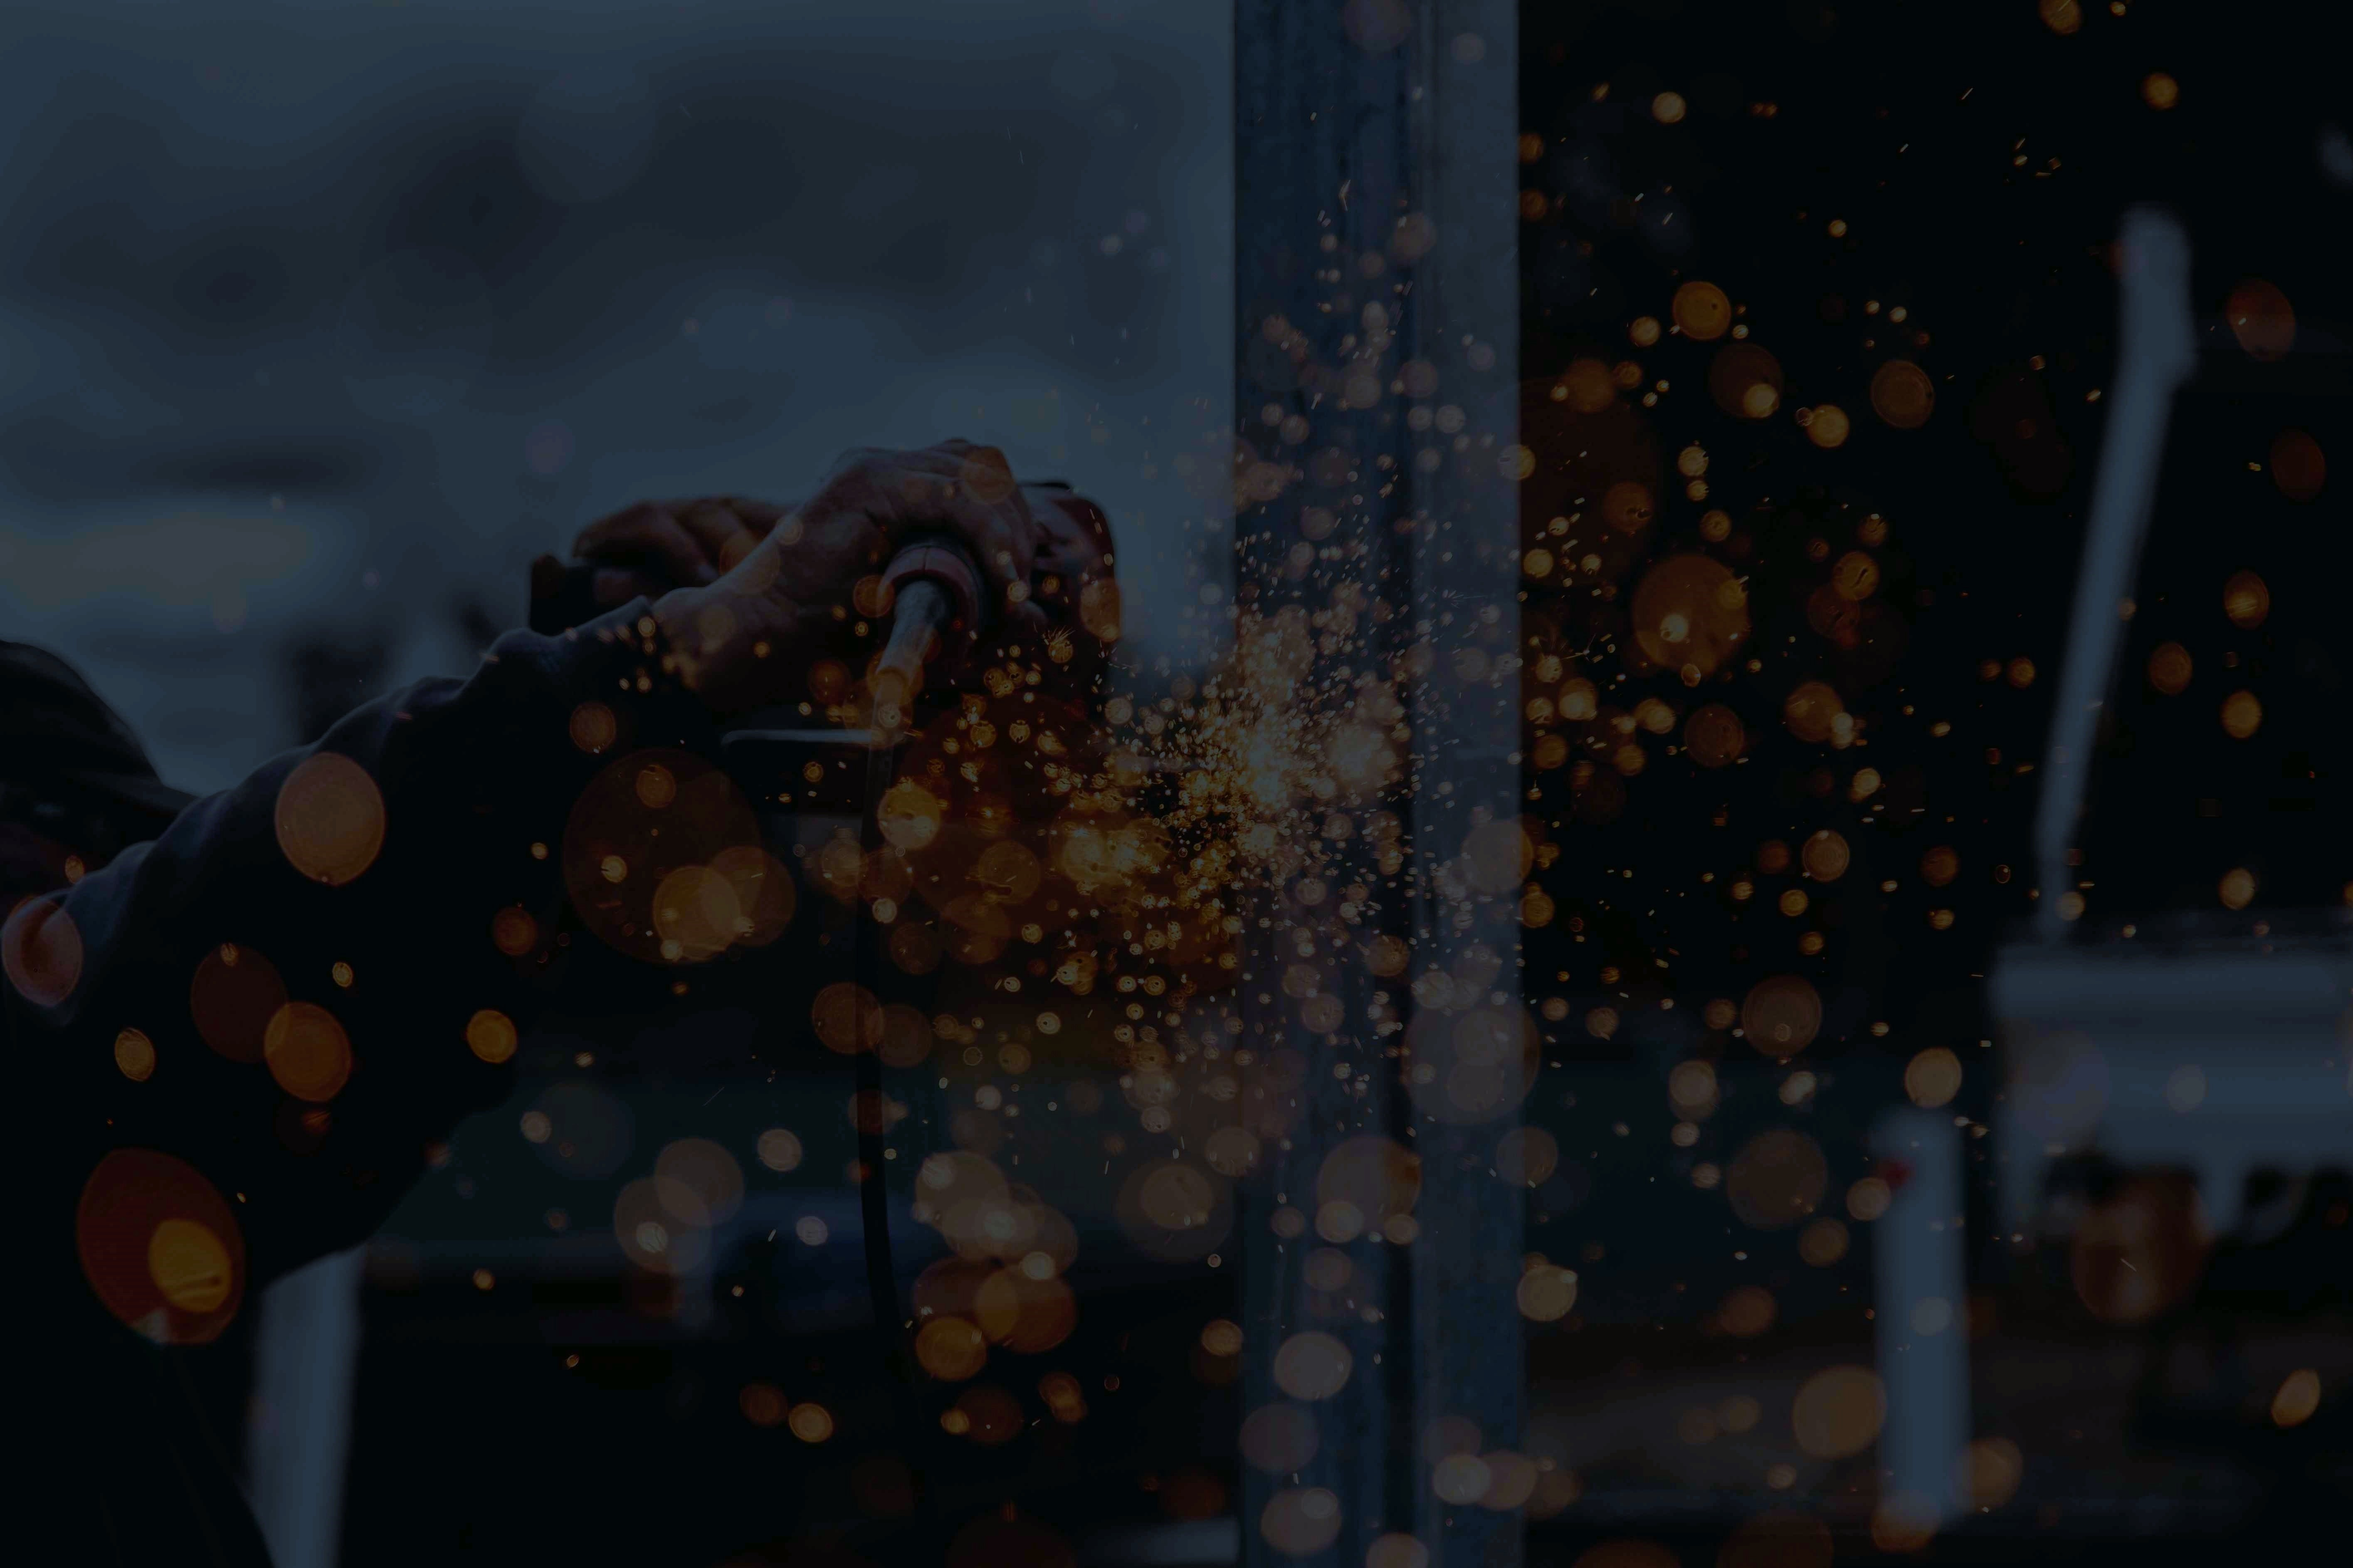
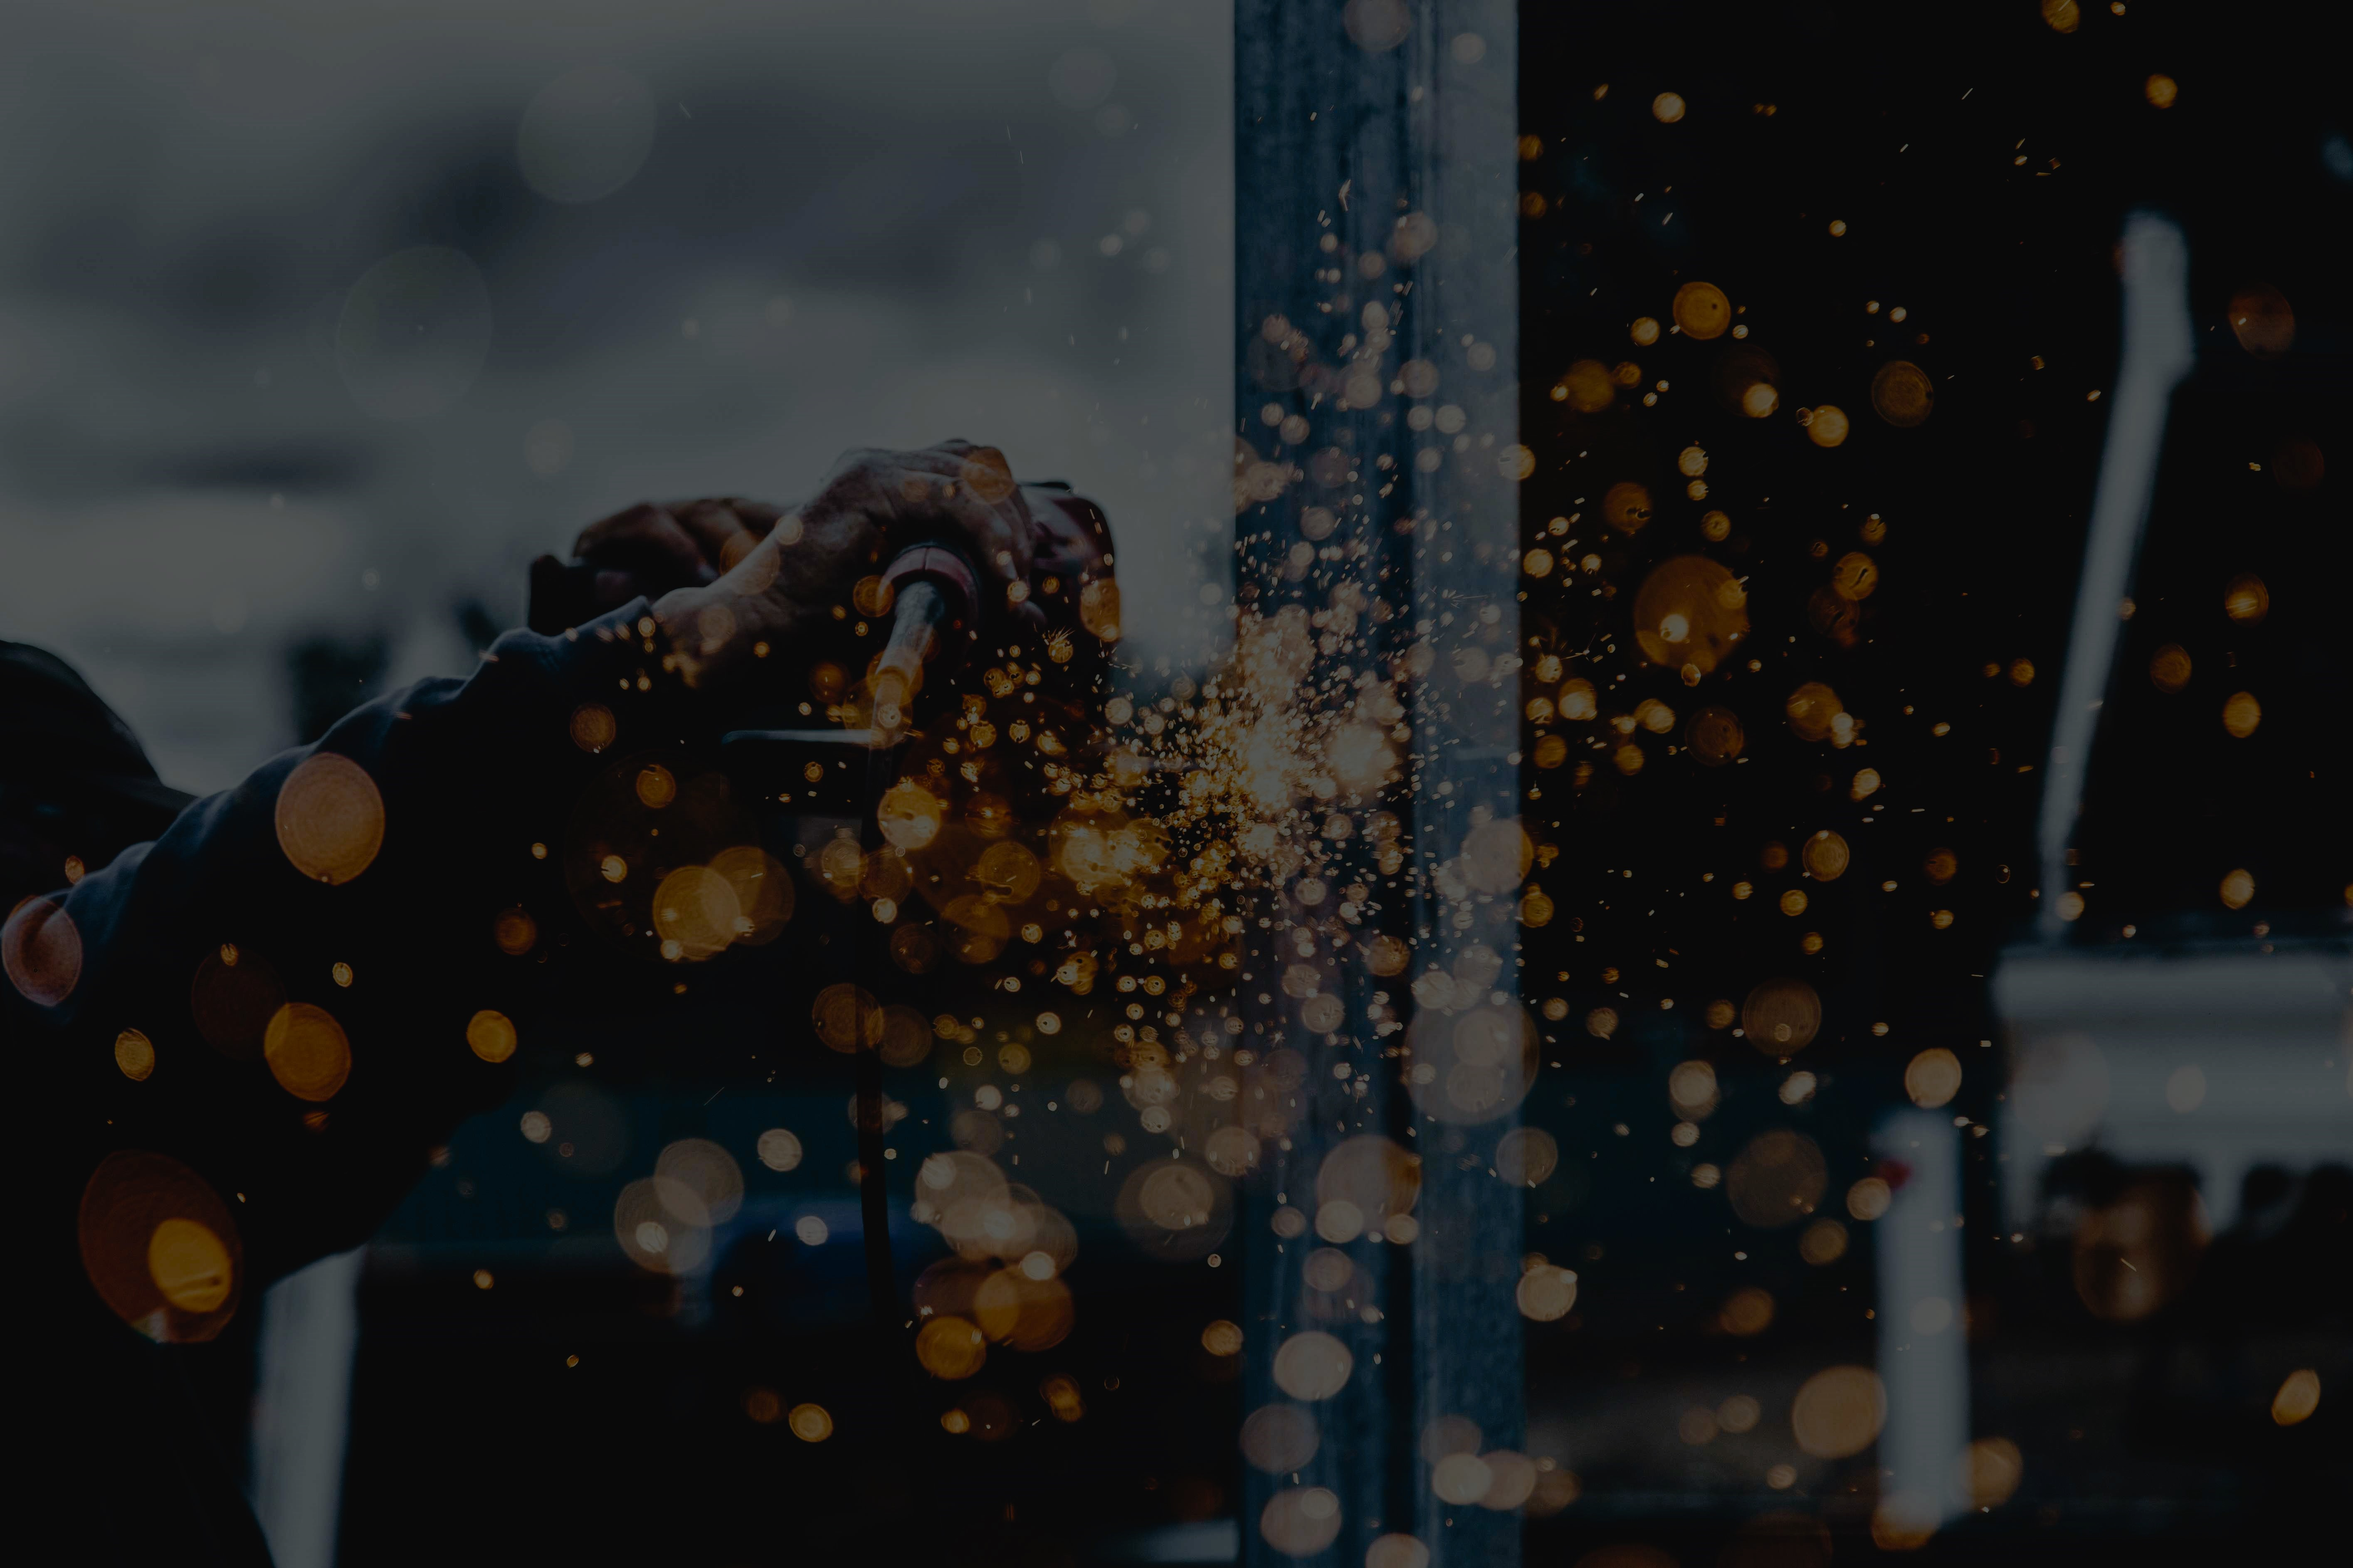
Debug

diff --git a/src/components/home/LatestArticles.js b/src/components/home/LatestArticles.js
@@ -3,7 +3,11 @@ import { Swiper, SwiperSlide } from "swiper/react";
 import { Autoplay } from "swiper/modules";
 import "swiper/css";
 import Image from "next/image";
-import img from "../../../public/images/slider-1.jpg";
+import img_1 from "../../../public/images/slider-1.jpg";
+import img_2 from "../../../public/images/slider-2.jpg";
+import img_3 from "../../../public/images/slider-3.jpg";
+import img_4 from "../../../public/images/slider-4.jpg";
+import img_5 from "../../../public/images/slider-5.jpg";
 import { FontAwesomeIcon } from "@fortawesome/react-fontawesome";
 import { faAngleLeft, faCalendarAlt } from "@fortawesome/free-solid-svg-icons";
 import { useMediaQuery } from "@/hooks/useMediaQuery";
@@ -42,8 +46,13 @@ export default function LatestArticles() {
                     >
                         <Image
                             className={styles.article_cover}
-                            src={img}
+                            src={img_1}
                             alt="عکس مقاله"
+                            width={100}
+                            height={100}
+                            quality={100}
+                            priority
+                            unoptimized
                         />
 
                         <div className={styles.article_information}>
@@ -76,8 +85,13 @@ export default function LatestArticles() {
                     >
                         <Image
                             className={styles.article_cover}
-                            src={img}
+                            src={img_2}
                             alt="عکس مقاله"
+                            width={100}
+                            height={100}
+                            quality={100}
+                            priority
+                            unoptimized
                         />
 
                         <div className={styles.article_information}>
@@ -110,8 +124,13 @@ export default function LatestArticles() {
                     >
                         <Image
                             className={styles.article_cover}
-                            src={img}
+                            src={img_3}
                             alt="عکس مقاله"
+                            width={100}
+                            height={100}
+                            quality={100}
+                            priority
+                            unoptimized
                         />
 
                         <div className={styles.article_information}>
@@ -144,8 +163,13 @@ export default function LatestArticles() {
                     >
                         <Image
                             className={styles.article_cover}
-                            src={img}
+                            src={img_4}
                             alt="عکس مقاله"
+                            width={100}
+                            height={100}
+                            quality={100}
+                            priority
+                            unoptimized
                         />
 
                         <div className={styles.article_information}>
@@ -178,8 +202,13 @@ export default function LatestArticles() {
                     >
                         <Image
                             className={styles.article_cover}
-                            src={img}
+                            src={img_5}
                             alt="عکس مقاله"
+                            width={100}
+                            height={100}
+                            quality={100}
+                            priority
+                            unoptimized
                         />
 
                         <div className={styles.article_information}>

diff --git a/src/components/global/Footer.js b/src/components/global/Footer.js
@@ -105,7 +105,11 @@ export default function Footer() {
                     <div className={`${styles.hcb} ${hcb1 ? styles.show : ""}`}>
                         <div
                             className={styles.title}
-                            onClick={() => setHcb1(!hcb1)}
+                            onClick={() => {
+                                setHcb1(!hcb1)
+                                setHcb2(false)
+                                setHcb3(false)
+                            }}
                         >
                             راهنمای مشتریان
                             <span>
@@ -127,7 +131,11 @@ export default function Footer() {
                     <div className={`${styles.hcb} ${hcb2 ? styles.show : ""}`}>
                         <div
                             className={styles.title}
-                            onClick={() => setHcb2(!hcb2)}
+                            onClick={() => {
+                                setHcb1(false)
+                                setHcb2(!hcb2)
+                                setHcb3(false)
+                            }}
                         >
                             همراه با روشن مارکت
                             <span>
@@ -149,7 +157,11 @@ export default function Footer() {
                     <div className={`${styles.hcb} ${hcb3 ? styles.show : ""}`}>
                         <div
                             className={styles.title}
-                            onClick={() => setHcb3(!hcb3)}
+                            onClick={() => {
+                                setHcb1(false)
+                                setHcb2(false)
+                                setHcb3(!hcb3)
+                            }}
                         >
                             راهنمای خرید از روشن مارکت
                             <span>

diff --git a/src/components/home/Categories.js b/src/components/home/Categories.js
@@ -17,6 +17,7 @@ export default function Categories() {
                     height={100}
                     quality={100}
                     priority
+                    unoptimized
                 />
 
                 <div className={styles.category_title}>
@@ -34,6 +35,7 @@ export default function Categories() {
                     height={100}
                     quality={100}
                     priority
+                    unoptimized
                 />
 
                 <div className={styles.category_title}>
@@ -51,6 +53,7 @@ export default function Categories() {
                     height={100}
                     quality={100}
                     priority
+                    unoptimized
                 />
 
                 <div className={styles.category_title}>
@@ -68,6 +71,7 @@ export default function Categories() {
                     height={100}
                     quality={100}
                     priority
+                    unoptimized
                 />
 
                 <div className={styles.category_title}>

diff --git a/src/components/home/HomeSlider.js b/src/components/home/HomeSlider.js
@@ -44,6 +44,7 @@ export default function HomeSlider() {
             height={100}
             quality={100}
             priority
+            unoptimized
           />
         </SwiperSlide>
 
@@ -67,6 +68,7 @@ export default function HomeSlider() {
             height={100}
             quality={100}
             priority
+            unoptimized
           />
         </SwiperSlide>
 
@@ -90,6 +92,7 @@ export default function HomeSlider() {
             height={100}
             quality={100}
             priority
+            unoptimized
           />
         </SwiperSlide>
 
@@ -113,6 +116,7 @@ export default function HomeSlider() {
             height={100}
             quality={100}
             priority
+            unoptimized
           />
         </SwiperSlide>
 
@@ -136,6 +140,7 @@ export default function HomeSlider() {
             height={100}
             quality={100}
             priority
+            unoptimized
           />
         </SwiperSlide>
       </Swiper>

diff --git a/src/styles/products/FilterBox.module.css b/src/styles/products/FilterBox.module.css
@@ -223,13 +223,8 @@
     .container {
         width: calc(100% - 40px);
         padding: 0 20px 15px 20px;
-        position: fixed;
-        left: 0;
-        top: 147px;
-        display: flex;
-        align-items: center;
-        flex-direction: row;
-        z-index: 9;
+        top: 0;
+        position: relative;
         border: none;
     }
 
@@ -283,6 +278,7 @@
         transition: 0.5s ease;
         display: block;
         border-radius: 10px 10px 0 0;
+        z-index: 3;
     }
     .filter_box.show .options {
         transition: 0.5s;
@@ -307,13 +303,6 @@
 }
 
 @media (max-width: 580px) {
-    .container {
-        padding: 20px;
-        width: calc(100% - 40px);
-        top: 140px;
-        right: 0;
-    }
-
     .filters {
         flex-direction: column;
     }

diff --git a/src/styles/global/Header.module.css b/src/styles/global/Header.module.css
@@ -348,7 +348,7 @@
     }
     .categories_menu.show {
         left: 0;
-        top: calc(50% + 25px);
+        top: calc(50% + 35px);
     }
 
     .main_title {
@@ -388,7 +388,6 @@
         position: absolute;
         left: 0;
         top: 85px;
-        box-shadow: 0 20px 20px #00000009;
     }
 
     .logo_wrapper {
@@ -405,7 +404,7 @@
         padding: 20px;
     }
     .categories_menu.show {
-        top: calc(50% + 45px);
+        top: calc(50% + 55px);
     }
 
     .categ_item {
@@ -437,8 +436,9 @@
     }
 
     .categories_menu {
-        height: calc(100% - 100px) !important;
-        top: 100%;
+        width: calc(100% - 40px);
+        height: 100% !important;
+        position: fixed;
         z-index: 9;
     }
     .categories_menu.show {

diff --git a/src/styles/products/ProductsSection.module.css b/src/styles/products/ProductsSection.module.css
@@ -153,7 +153,11 @@
     .container {
         width: 100%;
         padding: 0;
-        margin-top: 104px;
+        margin-top: 45px;
+    }
+
+    .products_container {
+        flex-direction: column;
     }
 
     .pagination {
@@ -162,18 +166,15 @@
 
     .f_boxes {
         width: calc(100% - 40px);
-        padding: 0 20px 15px 20px;
+        padding: 15px 20px 15px 20px;
         font-size: 14px;
+        border: none;
     }
 }
 
 @media (max-width: 580px) {
     .reset_btn_2.show {
         display: block;
-    }
-
-    .container {
-        margin-top: 119px;
     }
 
     .f_boxes {

diff --git a/src/styles/global/Footer.module.css b/src/styles/global/Footer.module.css
@@ -160,16 +160,17 @@
     padding: 20px;
     width: calc(100% - 40px);
     background-color: #fff;
+    max-height: 20px;
     overflow: hidden;
-    height: 20px;
     cursor: pointer;
+    transition: .4s ease;
 }
 .hcb:nth-child(2) {
     border-top: 1px solid #f3f4f6;
     border-bottom: 1px solid #f3f4f6;
 }
 .hcb.show {
-    height: fit-content;
+    max-height: 300px;
 }
 
 .hcb .title {

diff --git a/src/styles/home/Categories.module.css b/src/styles/home/Categories.module.css
@@ -22,11 +22,11 @@
     top: 0;
     right: 0;
     border-radius: 10px;
-    filter: brightness(0.4);
+    filter: brightness(0.8);
     transition: .2s;
 }
 .category_box:hover .category_img {
-    filter: brightness(0.2);
+    filter: brightness(0.4);
 }
 
 .category_title {

diff --git a/src/styles/home/HomeSlider.module.css b/src/styles/home/HomeSlider.module.css
@@ -77,11 +77,12 @@
     }
 
     .title_box {
-        font-size: 30px;
+        font-size: 24px;
     }
 
     .show_btn {
         font-size: 12px;
+        padding: 5px 10px;
     }
     .show_btn span {
         font-size: 10px;
